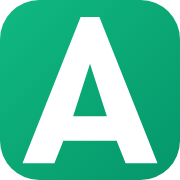
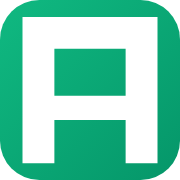
feat(r51): the A squares up — a box letterform, flat top, vertical stems, no splay

diff --git a/src/components/marketing/brand/ProductMarks.tsx b/src/components/marketing/brand/ProductMarks.tsx
@@ -86,7 +86,7 @@ export const VegaMark: React.FC<MarkProps> = ({ className = 'h-7 w-7', title }) 
     );
 };
 
-/** Atrium — the Big A (R47): a solid emerald tile with a bold white A
+/** Atrium — the Big A (R47, redrawn R51): a solid emerald tile with a
  *  cut through it — the PracticePro favicon's own formula (owner
  *  direction: "I don't like the favicon or even the icon for Atrium.
  *  For Atrium, I think it would look better if you look at the Practice
@@ -96,7 +96,10 @@ export const VegaMark: React.FC<MarkProps> = ({ className = 'h-7 w-7', title }) 
  *  the letter carries the meaning; nothing to interpret at a glance.
  *  (R28's house mark and R39's courtyard coin are retired by
  *  owner direction — the courtyard read as abstract geometry, not as
- *  the product's name.) */
+ *  the product's name.) R51 redraws the letterform by owner direction
+ *  ("make the 'A' have a flat top it looks too pointed please. it
+ *  should be a box 'A' not with slants"): the pointed apex and splayed
+ *  legs are gone — the A is a BOX letter, every edge orthogonal. */
 export const AtriumMark: React.FC<MarkProps> = ({ className = 'h-7 w-7', title }) => {
     const uid = useId().replace(/[^a-zA-Z0-9]/g, '');
     return (
@@ -121,20 +124,22 @@ export const AtriumMark: React.FC<MarkProps> = ({ className = 'h-7 w-7', title }
                 clarity. No hairline — the filled tile holds its own edge
                 on light and dark UI alike. */}
             <rect x="1" y="1" width="46" height="46" rx="11.5" fill={`url(#atmk${uid})`} />
-            {/* THE A — one bold geometric letterform, solid white, sized
-                like the company favicon's P (owner, R47: "There's a big
-                P... it looks much clearer"): the letter spans 75% of the
-                tile's width and 81% of its height, with 8.5-unit legs
-                (≈2.8px at a 16px tab render — the P's own stem weight)
-                and a 6.5-unit crossbar. Drawn as a single evenodd path:
-                the A silhouette (flat apex, two legs, feet) with the
-                bottom notch open and the counter punched above the bar.
-                The counter (9 wide) and notch stay legible at 16px —
-                the VLM-verified clarity bar for the tab. */}
+            {/* THE A — one bold BOX letterform (R51), solid white, sized
+                like the company favicon's P: the letter spans 75% of the
+                tile's width and 81% of its height and is drawn as a
+                single evenodd path with ONLY orthogonal edges — a flat
+                top across the full 6→42 span, two vertical 8.5-unit
+                stems (≈2.8px at a 16px tab render — the P's own stem
+                weight), a 6.5-unit crossbar, a rectangular counter
+                (19×12.5) and a squared foot notch. No apex, no splayed
+                legs — the box register the owner asked for (R51:
+                "it should be a box 'A' not with slants"). The counter
+                and notch open wider than the R47 triangle, so the
+                letter stays VLM-legible at 16px. */}
             <path
                 fillRule="evenodd"
-                d="M6 43.5 L21.5 4.5 H26.5 L42 43.5 H33.5 L31.1 37.5 H16.9 L14.5 43.5 Z
-                   M24 17 L28.5 31 H19.5 Z"
+                d="M6 4.5 H42 V43.5 H33.5 V32 H14.5 V43.5 H6 Z
+                   M14.5 13 H33.5 V25.5 H14.5 Z"
                 fill="#FFFFFF"
             />
         </svg>

diff --git a/tests/unit/websiteRepositioning.test.ts b/tests/unit/websiteRepositioning.test.ts
@@ -1216,6 +1216,28 @@ describe("W4 — structured data: Organization + per-product apps", () => {
     expect(ariaPrompt).toContain("by PracticePro");
   });
 
+  it("R51 — the A is a BOX letter: flat top, vertical stems, no slants", () => {
+    // Owner, R51: "make the 'A' have a flat top it looks too pointed
+    // please. it should be a box 'A' not with slants." The R47 A had a
+    // narrow apex and splayed legs (L-commands climbing to y 4.5). The
+    // R51 letterform is orthogonal end to end: flat top across the full
+    // letter width, two vertical stems, a rectangular counter and a
+    // squared foot notch — every drawing command is H or V.
+    const marks = read("src", "components", "marketing", "brand", "ProductMarks.tsx");
+    const boxPath = "M6 4.5 H42 V43.5 H33.5 V32 H14.5 V43.5 H6 Z";
+    const counterPath = "M14.5 13 H33.5 V25.5 H14.5 Z";
+    expect(marks).toContain(boxPath);
+    expect(marks).toContain(counterPath);
+    // The pointed/slanted R47 silhouette is gone.
+    expect(marks).not.toContain("M6 43.5 L21.5 4.5");
+    expect(marks).not.toContain("L31.1 37.5");
+    // The standalone favicon SVG carries the identical geometry.
+    const atriumFavicon = read("public", "brand", "atrium", "favicon.svg");
+    expect(atriumFavicon).toContain(boxPath);
+    expect(atriumFavicon).toContain(counterPath);
+    expect(atriumFavicon).not.toContain("M6 43.5 L21.5 4.5");
+  });
+
   it("no fabricated aggregateRating anywhere", () => {
     expect(index).not.toContain("aggregateRating");
     expect(index).not.toContain("ratingValue");
